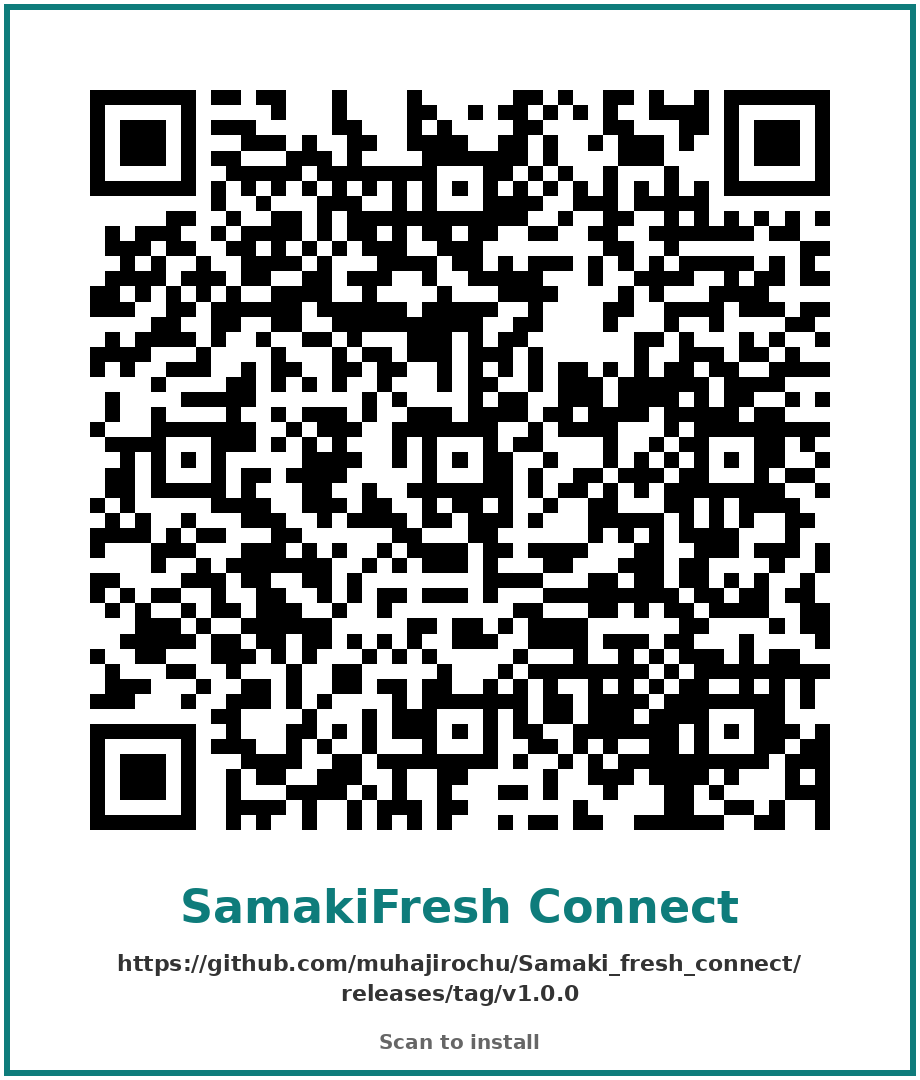
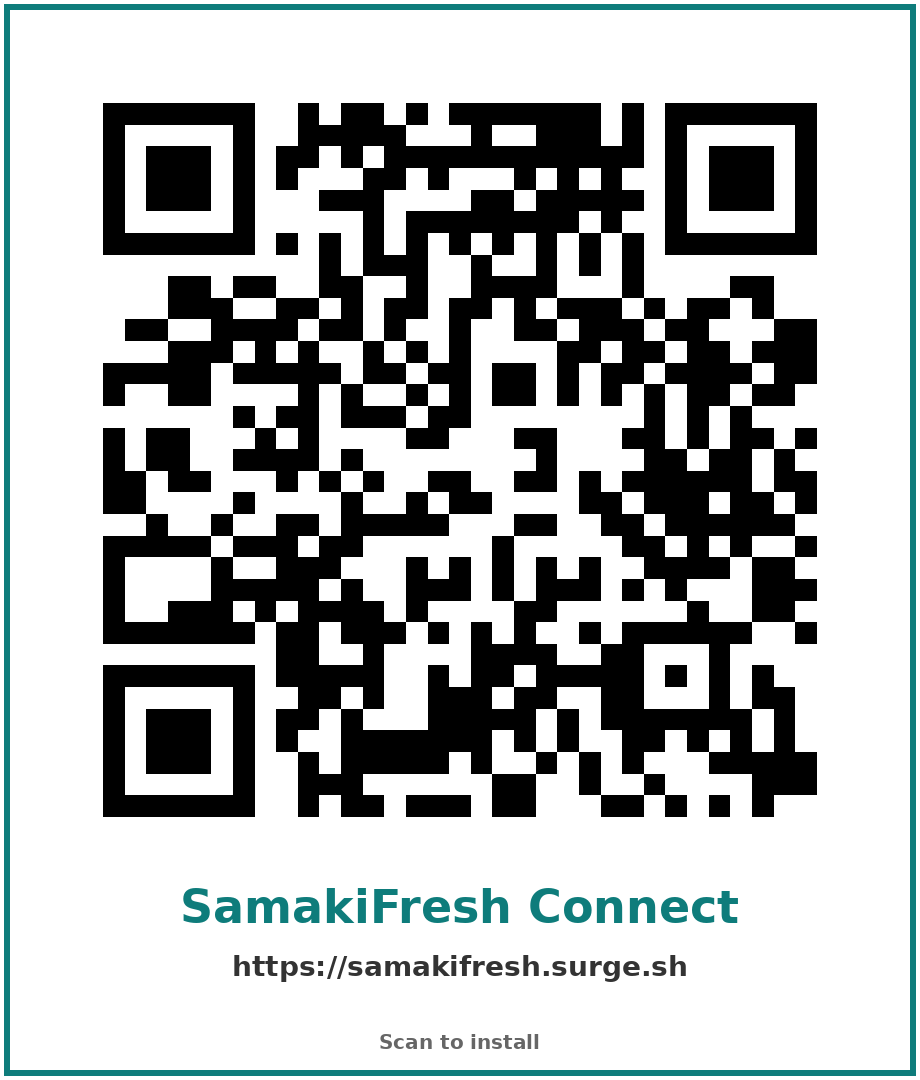
feat(release): point AppReleaseConfig + QR codes at samakifresh.surge.sh
Move the public download page from the GitHub release tag page to the
React landing page hosted at https://samakifresh.surge.sh so that
scanning the QR lands on a branded page with a single primary
download button instead of GitHub's asset list.

The direct APK downloadUrl still points at the GitHub release asset
(https://github.com/.../releases/download/v1.0.0/app-release.apk) so
the actual binary stays on GitHub's CDN; the Surge page is just the
QR landing surface.

QR codes in assets/qr/ regenerated against the new URL. Both encode
the landing page URL with error-correction level H so the same
printed install card stays scannable through wear-and-tear.

Changed region(s): [[0.0913, 0.0611, 0.913, 0.7944], [0.1217, 0.8861, 0.8826, 0.9472]]

diff --git a/lib/config/app_release_config.dart b/lib/config/app_release_config.dart
@@ -27,8 +27,7 @@ class AppReleaseConfig {
   /// (or `iosDownloadUrl`) below changes. Update this single string
   /// to point at the deployed landing page (Firebase Hosting,
   /// GitHub Pages, custom domain, …).
-  static const String publicDownloadPageUrl =
-      'https://github.com/muhajirochu/Samaki_fresh_connect/releases/tag/v1.0.0';
+  static const String publicDownloadPageUrl = 'https://samakifresh.surge.sh';
 
   /// Direct-download HTTPS link for the Release Android APK.
   ///
